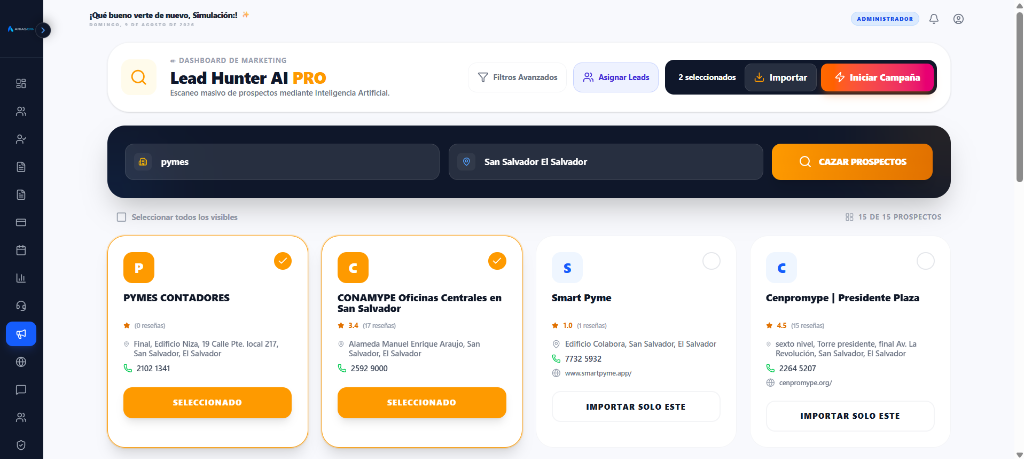
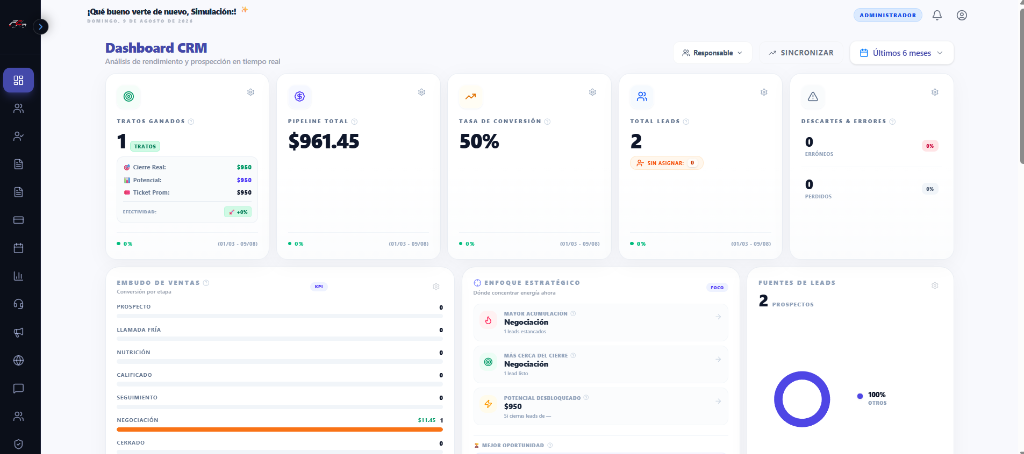
fix(landing): assign Dashboard CRM image to Hero and Lead Hunter AI PRO image to Lead Hunter feature section

diff --git a/src/components/landing/LandingFeatures.tsx b/src/components/landing/LandingFeatures.tsx
@@ -98,87 +98,13 @@ const OmnichannelMockup = () => (
 );
 
 const LeadHunterMockup = () => (
-  <div style={{background:'#fff',borderRadius:'16px',boxShadow:'0 24px 64px rgba(0,0,0,0.12)',overflow:'hidden',border:'1px solid #e8edf5',maxWidth:'800px',margin:'0 auto'}}>
-    <div style={{background:'#134e38',padding:'10px 20px',display:'flex',alignItems:'center',gap:'12px'}}>
-      <span style={{color:'white',fontSize:'13px',fontWeight:700}}>🎯 Lead Hunter Pro</span>
-      <div style={{background:'rgba(255,255,255,0.15)',borderRadius:'6px',padding:'5px 12px',display:'flex',alignItems:'center',gap:'8px',flex:1,maxWidth:'300px'}}>
-        <span style={{fontSize:'11px',color:'rgba(255,255,255,0.7)'}}>Industria:</span>
-        <span style={{fontSize:'11px',color:'white',fontWeight:600}}>Gimnasios y Fitness</span>
-      </div>
-      <div style={{background:'rgba(255,255,255,0.15)',borderRadius:'6px',padding:'5px 12px',display:'flex',alignItems:'center',gap:'8px'}}>
-        <span style={{fontSize:'11px',color:'rgba(255,255,255,0.7)'}}>Ciudad:</span>
-        <span style={{fontSize:'11px',color:'white',fontWeight:600}}>Miami, FL</span>
-      </div>
-      <button style={{background:'#e13b24',color:'white',border:'none',borderRadius:'6px',padding:'6px 16px',fontSize:'11px',fontWeight:700,cursor:'pointer'}}>🔍 Buscar</button>
-    </div>
-    <div style={{display:'flex',height:'300px'}}>
-      {/* Map area */}
-      <div style={{width:'320px',background:'#e8f4e8',flexShrink:0,position:'relative',overflow:'hidden'}}>
-        <svg viewBox="0 0 320 300" style={{width:'100%',height:'100%'}}>
-          <rect width="320" height="300" fill="#e8f4e8"/>
-          <path d="M30 150 Q80 100 130 130 Q180 90 240 120 Q280 100 310 110" stroke="#c8e0c8" strokeWidth="20" fill="none"/>
-          <path d="M20 200 Q90 180 150 200 Q200 180 260 190 Q300 185 315 175" stroke="#c8e0c8" strokeWidth="15" fill="none"/>
-          <rect x="60" y="120" width="40" height="30" rx="4" fill="#d4e8d4" stroke="#b8d4b8" strokeWidth="1"/>
-          <rect x="140" y="90" width="50" height="35" rx="4" fill="#d4e8d4" stroke="#b8d4b8" strokeWidth="1"/>
-          <rect x="220" y="110" width="45" height="28" rx="4" fill="#d4e8d4" stroke="#b8d4b8" strokeWidth="1"/>
-          {[[80,118],[165,88],[243,108],[110,200],[200,195],[270,180],[145,155]].map(([x,y],i)=>(
-            <g key={i}>
-              <circle cx={x} cy={y} r="12" fill="#16a34a" opacity="0.9"/>
-              <circle cx={x} cy={y} r="5" fill="white"/>
-              <circle cx={x} cy={y+16} r="8" fill="#16a34a" opacity="0.2"/>
-            </g>
-          ))}
-          <text x="160" y="280" textAnchor="middle" fill="#166534" fontSize="11" fontWeight="700">47 negocios encontrados</text>
-        </svg>
-      </div>
-      {/* Results table */}
-      <div style={{flex:1,overflow:'auto'}}>
-        <div style={{padding:'10px 16px',borderBottom:'1px solid #f3f4f6',display:'flex',justifyContent:'space-between',alignItems:'center'}}>
-          <span style={{fontSize:'12px',fontWeight:700,color:'#111827'}}>47 leads encontrados · Miami, FL</span>
-          <div style={{display:'flex',gap:'6px'}}>
-            <button style={{background:'#f3f4f6',border:'none',borderRadius:'6px',padding:'5px 10px',fontSize:'10px',fontWeight:600,cursor:'pointer',color:'#374151'}}>Exportar CSV</button>
-            <button style={{background:'#e13b24',border:'none',borderRadius:'6px',padding:'5px 10px',fontSize:'10px',fontWeight:700,cursor:'pointer',color:'white'}}>Agregar todos al CRM</button>
-          </div>
-        </div>
-        <table style={{width:'100%',borderCollapse:'collapse'}}>
-          <thead>
-            <tr style={{background:'#f9fafb'}}>
-              {['','Negocio','Teléfono','Email','Rating','Acción'].map(h=>(
-                <th key={h} style={{padding:'8px 10px',fontSize:'9px',fontWeight:700,color:'#6b7280',textAlign:'left',textTransform:'uppercase',letterSpacing:'0.05em'}}>{h}</th>
-              ))}
-            </tr>
-          </thead>
-          <tbody>
-            {[
-              {name:'FitLife Gym',phone:'+1 305 442 1234',email:'info@fitlife.com',rating:'4.8 ⭐',added:false},
-              {name:'PowerZone Miami',phone:'+1 786 555 9876',email:'contact@pzone.com',rating:'4.6 ⭐',added:true},
-              {name:'Iron Temple',phone:'+1 305 333 4567',email:'gym@irontemple.com',rating:'4.7 ⭐',added:false},
-              {name:'South Beach Fit',phone:'+1 786 123 4567',email:'hello@sbfit.com',rating:'4.5 ⭐',added:false},
-              {name:'Muscle Factory',phone:'+1 305 789 0123',email:'info@musclefact.com',rating:'4.9 ⭐',added:false},
-            ].map((row,i)=>(
-              <tr key={row.name} style={{borderBottom:'1px solid #f9fafb',background:i%2===0?'white':'#fafbff'}}>
-                <td style={{padding:'8px 10px'}}><input type="checkbox" style={{cursor:'pointer'}}/></td>
-                <td style={{padding:'8px 10px'}}>
-                  <div style={{display:'flex',alignItems:'center',gap:'6px'}}>
-                    <div style={{width:'28px',height:'28px',borderRadius:'6px',background:'#dcfce7',display:'flex',alignItems:'center',justifyContent:'center',fontSize:'12px'}}>🏋</div>
-                    <span style={{fontSize:'11px',fontWeight:600,color:'#111827'}}>{row.name}</span>
-                  </div>
-                </td>
-                <td style={{padding:'8px 10px',fontSize:'10px',color:'#374151'}}>{row.phone}</td>
-                <td style={{padding:'8px 10px',fontSize:'10px',color:'#1f73b7'}}>{row.email}</td>
-                <td style={{padding:'8px 10px',fontSize:'10px',color:'#374151'}}>{row.rating}</td>
-                <td style={{padding:'8px 10px'}}>
-                  {row.added
-                    ? <span style={{background:'#dcfce7',color:'#16a34a',fontSize:'9px',fontWeight:700,padding:'3px 8px',borderRadius:'4px'}}>✓ En CRM</span>
-                    : <button style={{background:'#e13b24',color:'white',border:'none',borderRadius:'4px',padding:'3px 8px',fontSize:'9px',fontWeight:700,cursor:'pointer'}}>+ Agregar</button>
-                  }
-                </td>
-              </tr>
-            ))}
-          </tbody>
-        </table>
-      </div>
-    </div>
+  <div style={{ background: '#fff', borderRadius: '16px', boxShadow: '0 24px 64px rgba(0,0,0,0.12)', overflow: 'hidden', border: '1px solid #e8edf5', maxWidth: '1150px', margin: '0 auto' }}>
+    <img
+      src="/crm-lead-hunter.png"
+      alt="Lead Hunter AI PRO — Arias CRM"
+      style={{ width: '100%', height: 'auto', display: 'block' }}
+      loading="lazy"
+    />
   </div>
 );
 
